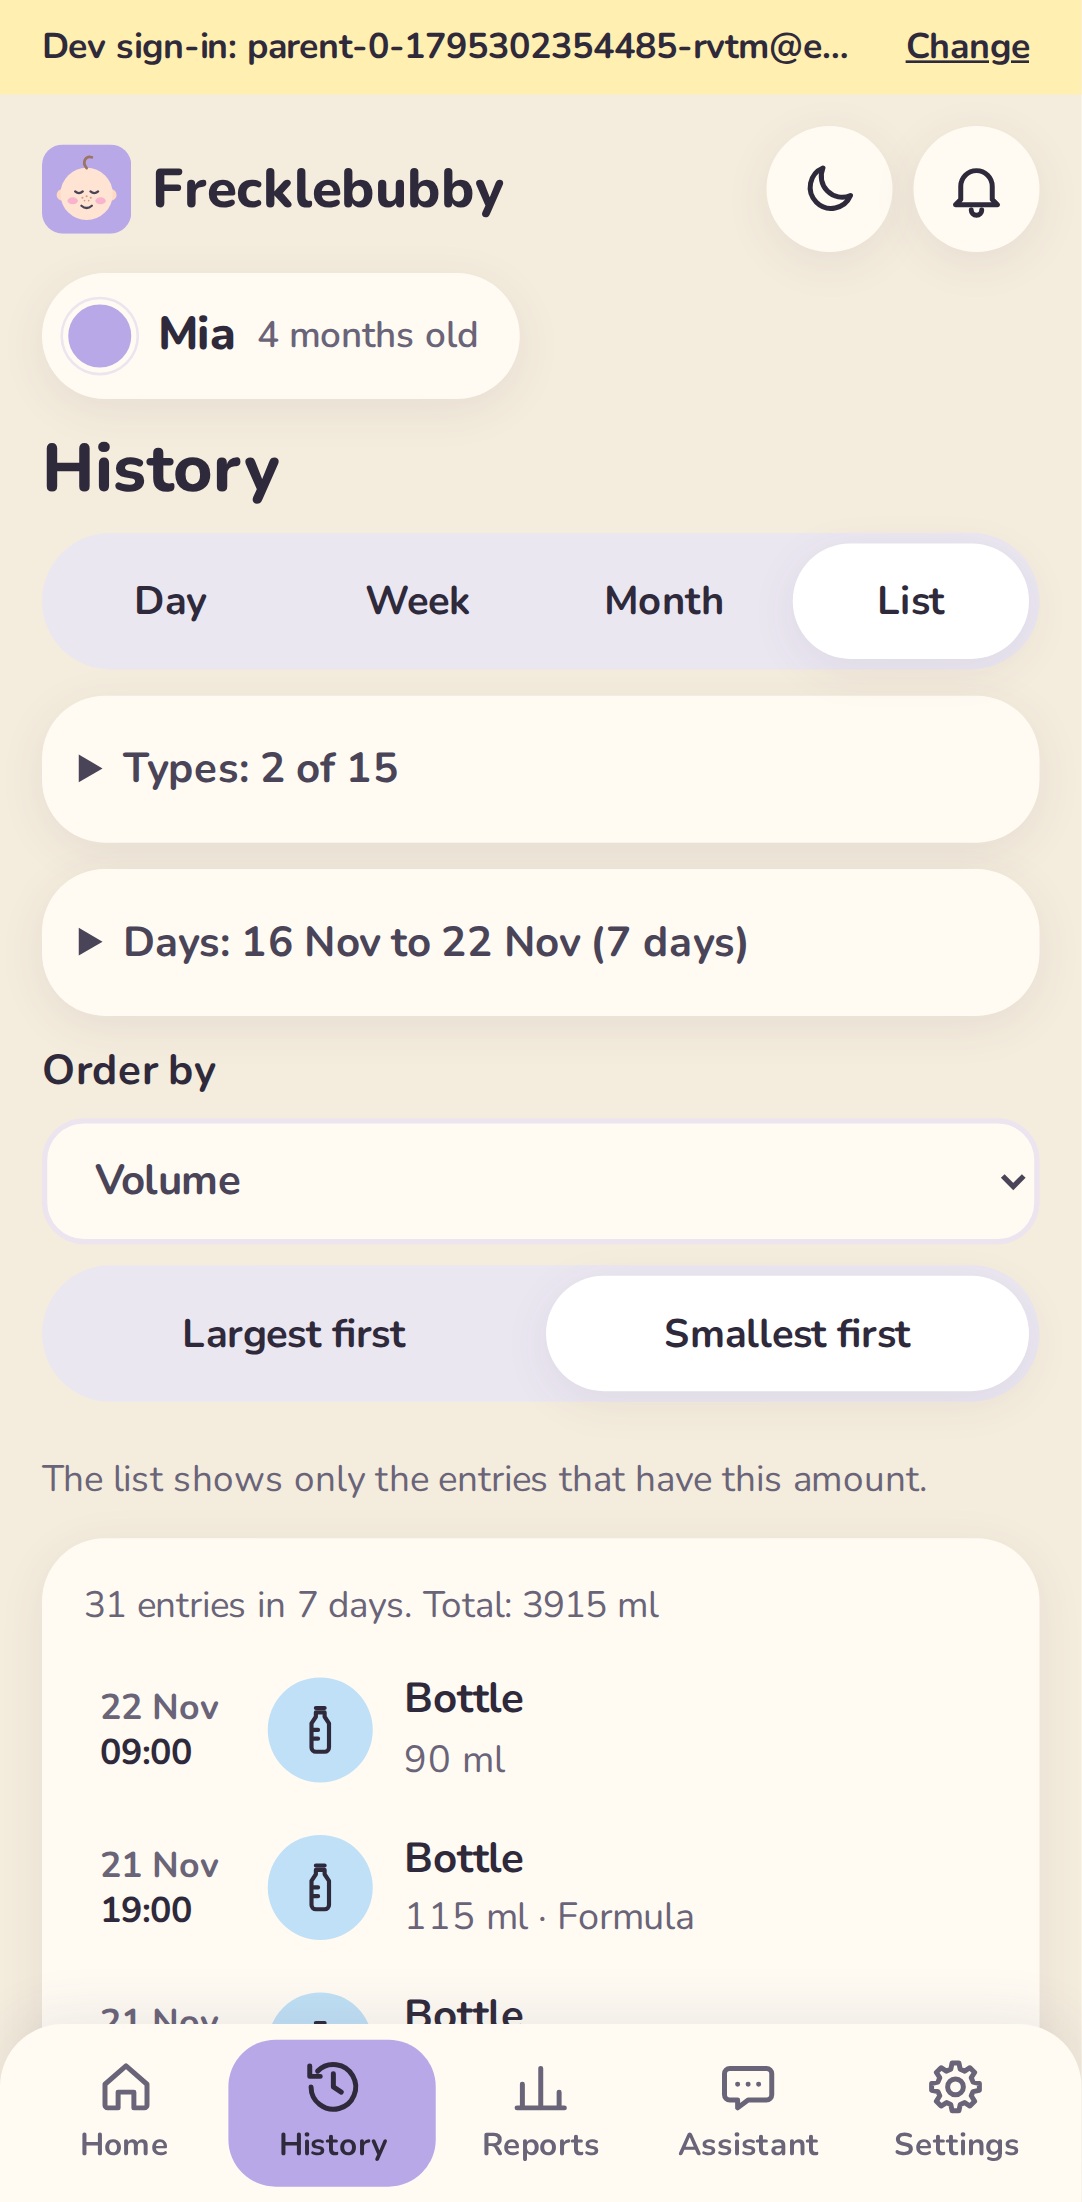
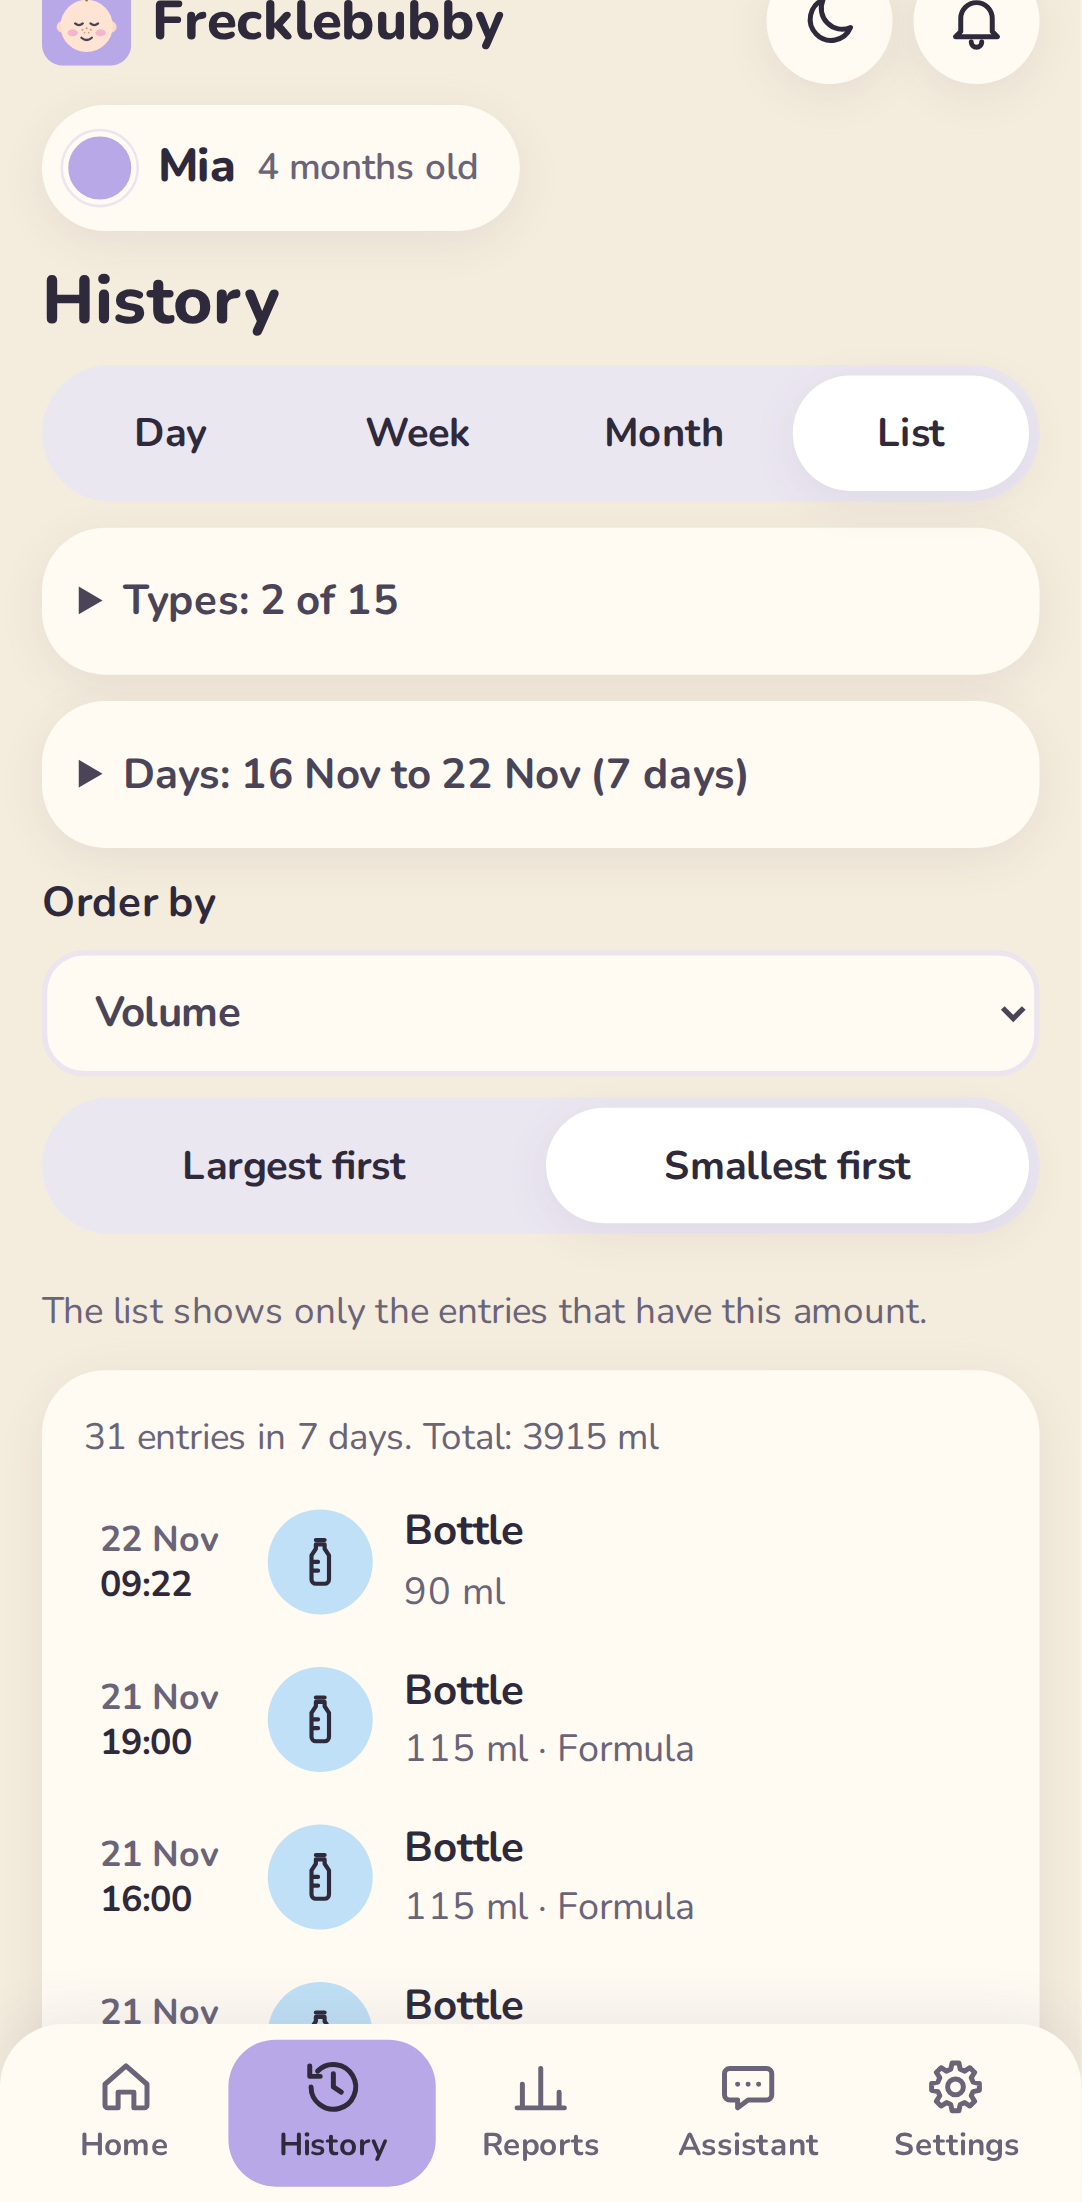
Release 0.8.2: download the History list as CSV, with the same types, days and order

diff --git a/frontend/src/routes/history/+page.svelte b/frontend/src/routes/history/+page.svelte
@@ -1,5 +1,5 @@
 <script lang="ts">
-	import { api } from '#lib/api.ts';
+	import { api, downloadCsv } from '#lib/api.ts';
 	import { child, wording } from '#lib/app.svelte.ts';
 	import EntrySheet from '#lib/EntrySheet.svelte';
 	import { units } from '#lib/app.svelte.ts';
@@ -100,6 +100,26 @@
 		load();
 	});
 
+	// the CSV has the same types, days and order as the list on the screen
+	let exporting = $state(false);
+	async function exportCsv() {
+		const q = new URLSearchParams({ sort, dir });
+		if (off.length) for (const t of types) q.append('type', t.type);
+		if (ranged) {
+			q.set('from', `${range.from}T00:00`);
+			q.set('to', `${addDays(range.to, 1)}T00:00`);
+		}
+		exporting = true;
+		error = '';
+		try {
+			await downloadCsv(child()!, localDay(), q.toString());
+		} catch (e) {
+			error = (e as Error).message;
+		} finally {
+			exporting = false;
+		}
+	}
+
 	// the total of the selected days, for the amounts that you can add
 	const total = $derived.by(() => {
 		if (sort === 'volume')
@@ -194,6 +214,10 @@
 		{/if}
 		{#if more}<button class="ghost wide" disabled={loading} onclick={() => load(true)}>Show older</button>{/if}
 		{#if ranged && entries.length > shown}<button class="ghost wide" onclick={() => (shown += 200)}>Show more</button>{/if}
+		{#if types.length && entries.length}
+			<button class="ghost wide" disabled={exporting} onclick={exportCsv}><Icon name="download" /> Download this list as CSV</button>
+			<p class="muted small">The file has all entries of the selected types and days, in this order.</p>
+		{/if}
 	{/if}
 </section>
 

diff --git a/e2e/tests/05-history-reports.spec.ts b/e2e/tests/05-history-reports.spec.ts
@@ -76,6 +76,13 @@ test('History and Reports show a week of data, growth percentile and CSV export'
 	await expect(page.getByText('(2 days)')).toBeVisible();
 	await expect(page.getByText('6 entries in 2 days. Total: 665 ml')).toBeVisible();
 	await expect(page.getByRole('button', { name: /Edit Bottle/ })).toHaveCount(6);
+	// the CSV of the list has the same selection and order: 6 bottles of 2 days, the smallest first
+	const [listCsv] = await Promise.all([page.waitForEvent('download'), page.getByRole('button', { name: 'Download this list as CSV' }).click()]);
+	const lines = readFileSync(await listCsv.path(), 'utf8').trim().split('\n');
+	expect(lines[0]).toContain('id,type,started_at');
+	expect(lines.length).toBe(7);
+	expect(lines[1]).toContain('""amount_ml"":90');
+	expect(lines.every((l, i) => i === 0 || l.includes(',bottle,'))).toBeTruthy();
 	// a range can have 180 days at most: the other day moves
 	await page.getByLabel('First day').fill(day(300));
 	await expect(page.getByText('(180 days)')).toBeVisible();

diff --git a/frontend/src/routes/reports/+page.svelte b/frontend/src/routes/reports/+page.svelte
@@ -1,5 +1,5 @@
 <script lang="ts">
-	import { api, apiRaw } from '#lib/api.ts';
+	import { api, downloadCsv } from '#lib/api.ts';
 	import { child, units, wording } from '#lib/app.svelte.ts';
 	import BarChart, { average } from '#lib/BarChart.svelte';
 	import { addDays, fmtDay, fmtDur, localDay, round, toUnit, unitLabel, type UnitKind } from '#lib/format.svelte.ts';
@@ -48,13 +48,7 @@
 		const c = child()!;
 		exporting = true;
 		try {
-			const res = await apiRaw(`/children/${c.id}/export.csv`);
-			if (!res.ok) throw new Error('Export failed. Try again.');
-			const a = document.createElement('a');
-			a.href = URL.createObjectURL(await res.blob());
-			a.download = `frecklebubby-${c.name.toLowerCase().replace(/\W+/g, '-')}-${localDay()}.csv`;
-			a.click();
-			URL.revokeObjectURL(a.href);
+			await downloadCsv(c, localDay());
 		} catch (e) {
 			error = (e as Error).message;
 		} finally {

diff --git a/frontend/src/lib/api.ts b/frontend/src/lib/api.ts
@@ -1,6 +1,17 @@
 // REST client and sign-in. Dev mode: X-Dev-User header. Clerk mode: session token.
 import type { Clerk } from '@clerk/clerk-js';
 
+/** Download the entries of a child as a CSV file. `query` is the selection of the entry list; empty = all entries. */
+export async function downloadCsv(child: { id: number; name: string }, day: string, query = '') {
+	const res = await apiRaw(`/children/${child.id}/export.csv${query && '?' + query}`);
+	if (!res.ok) throw new Error('Export failed. Try again.');
+	const a = document.createElement('a');
+	a.href = URL.createObjectURL(await res.blob());
+	a.download = `frecklebubby-${child.name.toLowerCase().replace(/\W+/g, '-')}-${day}.csv`;
+	a.click();
+	URL.revokeObjectURL(a.href);
+}
+
 export type Config = {
 	auth_mode: 'dev' | 'clerk';
 	invite_only: boolean;

diff --git a/src/frecklebubby/services/export.py b/src/frecklebubby/services/export.py
@@ -1,15 +1,14 @@
-"""CSV export of all entries of a child."""
+"""CSV export of the entries of a child: all of them, or the same selection as the entry list."""
 
 import csv
 import io
 import json
 
-from sqlalchemy import select
 from sqlalchemy.orm import Session
 
-from ..models import Entry
 from . import Ctx
 from .children import get_child
+from .entries import list_entries
 
 COLUMNS = ["id", "type", "started_at", "ended_at", "duration_minutes", "data", "notes", "source"]
 
@@ -19,14 +18,15 @@ def _cell(text: str) -> str:
     return "'" + text if text[:1] in ("=", "+", "-", "@", "\t", "\r") else text
 
 
-def export_csv(s: Session, ctx: Ctx, child_id: int) -> tuple[str, str]:
-    """Returns (filename, csv text). Times are local to the family, with offset."""
+def export_csv(s: Session, ctx: Ctx, child_id: int, **select) -> tuple[str, str]:
+    """Returns (filename, csv text). Times are local to the family, with offset. `select` are the filter and
+    order arguments of list_entries; with none, all entries, the oldest first."""
     child = get_child(s, ctx, child_id)
     tz = ctx.tz
     out = io.StringIO()
     w = csv.writer(out)
     w.writerow(COLUMNS)
-    for e in s.scalars(select(Entry).where(Entry.child_id == child.id).order_by(Entry.started_at, Entry.id)):
+    for e in list_entries(s, ctx, child.id, **{"newest_first": False, **select, "limit": None}):
         minutes = round((e.ended_at - e.started_at).total_seconds() / 60, 1) if e.ended_at else ""
         w.writerow([
             e.id, e.type, e.started_at.astimezone(tz).isoformat(),

diff --git a/src/frecklebubby/services/entries.py b/src/frecklebubby/services/entries.py
@@ -81,11 +81,12 @@ MEASURES = {
 
 
 def list_entries(s: Session, ctx: Ctx, child_id: int, type_: str | list[str] | None = None,
-                 start: datetime | None = None, end: datetime | None = None, limit: int = 50,
+                 start: datetime | None = None, end: datetime | None = None, limit: int | None = 50,
                  before: datetime | None = None, newest_first: bool = True, sort: str = "time",
                  offset: int = 0) -> list[Entry]:
     """Entries that start in [start, end) and before `before` (page cursor). `sort` is "time" or a name in MEASURES;
-    with a measure, entries that do not have it are left out, and `newest_first` means largest first."""
+    with a measure, entries that do not have it are left out, and `newest_first` means largest first.
+    `limit` None gives all entries (for the export)."""
     child = get_child(s, ctx, child_id)
     q = select(Entry).where(Entry.child_id == child.id)
     if type_ is not None:
@@ -101,7 +102,7 @@ def list_entries(s: Session, ctx: Ctx, child_id: int, type_: str | list[str] | N
         m = MEASURES[sort]()
         q = q.where(m.is_not(None))
         order = (m.desc() if newest_first else m.asc(), Entry.started_at.desc(), Entry.id.desc())
-    return list(s.scalars(q.order_by(*order).offset(offset).limit(max(1, min(limit, 1000)))))
+    return list(s.scalars(q.order_by(*order).offset(offset).limit(limit and max(1, min(limit, 1000)))))
 
 
 def update_entry(s: Session, ctx: Ctx, entry_id: int, body: EntryPatch) -> Entry:

diff --git a/src/frecklebubby/api/children.py b/src/frecklebubby/api/children.py
@@ -155,8 +155,19 @@ def child_growth(cid: int, ctx: Ctx = Depends(get_ctx), s: Session = Depends(get
 
 @router.get("/children/{cid}/export.csv", response_class=Response,
             responses={200: {"content": {"text/csv": {}}}})
-def export_csv(cid: int, ctx: Ctx = Depends(get_ctx), s: Session = Depends(get_session)):
-    name, text = export.export_csv(s, ctx, cid)
+def export_csv(
+    cid: int,
+    type: list[EntryType] | None = Query(None, description="One type or more. Without it, all types"),
+    start: datetime | None = Query(None, alias="from", description="Entries that start at or after this time"),
+    end: datetime | None = Query(None, alias="to", description="Entries that start before this time"),
+    sort: Literal["time", "duration", "volume", "weight", "height", "head", "temperature"] = Query(
+        "time", description="The order, as in the entry list. With an amount, entries without it are left out"),
+    dir: Literal["desc", "asc"] = Query("asc", description="asc: oldest or smallest first (default). desc: the reverse"),
+    ctx: Ctx = Depends(get_ctx),
+    s: Session = Depends(get_session),
+):
+    """All entries as CSV, or the same selection and order as `GET /children/{cid}/entries`."""
+    name, text = export.export_csv(s, ctx, cid, type_=type, start=start, end=end, sort=sort, newest_first=dir == "desc")
     return Response(text, media_type="text/csv; charset=utf-8",
                     headers={"Content-Disposition": f'attachment; filename="{name}"'})
 

diff --git a/tests/test_entry_list.py b/tests/test_entry_list.py
@@ -36,3 +36,14 @@ async def test_list_filter_and_order(client):
     assert [e["type"] for e in await get("sort=temperature")] == ["temperature"]
     assert [e["type"] for e in await get("sort=volume&limit=1&offset=1")] == ["pump"]
     assert (await client.get(f"{c}?sort=colour", headers=h)).status_code == 422
+
+    # the CSV export takes the same selection and order
+    async def ids(q):
+        r = await client.get(f"{API}/children/{cid}/export.csv?{q}", headers=h)
+        assert r.status_code == 200, r.text
+        return [line.split(",")[1] for line in r.text.strip().splitlines()[1:]]
+
+    assert len(await ids("")) == 8 and (await ids(""))[0] == "bottle"  # all entries, the oldest first
+    assert await ids("type=bottle&type=nappy&dir=desc") == ["nappy", "bottle", "bottle"]
+    assert await ids("sort=volume&dir=desc") == ["bottle", "pump", "bottle"]
+    assert await ids("from=2026-11-01T17:00:00Z&to=2026-11-01T19:00:00Z") == ["sleep", "nursing"]

diff --git a/README.md b/README.md
@@ -10,7 +10,7 @@ Log the day, see the patterns, and ask an assistant that shows its sources.
 Your data stays on your server.
 
 [![CI](https://github.com/dr-robert-li/frecklebubby/actions/workflows/ci.yml/badge.svg)](https://github.com/dr-robert-li/frecklebubby/actions/workflows/ci.yml)
-[![Version](https://img.shields.io/badge/version-0.8.1-e88fa6)](CHANGELOG.md)
+[![Version](https://img.shields.io/badge/version-0.8.2-e88fa6)](CHANGELOG.md)
 [![Licence: MIT](https://img.shields.io/badge/licence-MIT-7fb8a4)](LICENSE)
 [![Python 3.14](https://img.shields.io/badge/python-3.14-6c9bd2)](pyproject.toml)
 
@@ -40,7 +40,7 @@ Your data stays on your server.
 - Shows the history by day, week or month, or as a list. Week and month show each day as one row of 24 hours,
   with sleep as bars and feeds and nappies as marks, so you see the pattern. You select the types to show, and
   you can put the list in the order of time or of a logged amount (duration, volume, weight, length, temperature).
-  In the list you can also select a range of days (180 days at most), to see them together with a total.
+  In the list you can also select a range of days (180 days at most), to see them together with a total, and download the list as a CSV file.
 - Shows reports: sleep, feeds and nappies per day for a week or a month, with the average and the common range,
   and growth on WHO percentile curves. Exports CSV.
 - Sends reminders in the app and as push notifications.

diff --git a/CHANGELOG.md b/CHANGELOG.md
@@ -6,6 +6,13 @@ Version numbers follow [Semantic Versioning](https://semver.org/).
 
 ## [Unreleased]
 
+## [0.8.2] - 2026-11-22
+
+### Added
+
+- History, List view: "Download this list as CSV". The file has all entries of the selected types and days, in the order of the list. The format is the same as the CSV of the Reports page.
+- API: `GET /children/{id}/export.csv` accepts `type`, `from`, `to`, `sort` and `dir`, as the entry list does. With no parameter it gives all entries, the oldest first, as before.
+
 ## [0.8.1] - 2026-11-22
 
 ### Changed

diff --git a/docs/api-and-mcp.md b/docs/api-and-mcp.md
@@ -57,4 +57,7 @@ To list entries, use `GET /children/{id}/entries`. It gives the newest entries f
 - `dir`: `desc` (default: newest or largest first) or `asc`.
 - `limit` (default 50, maximum 1000) and `offset` for the next page.
 
+`GET /children/{id}/export.csv` gives the entries as a CSV file. It accepts `type`, `from`, `to`, `sort` and `dir`
+in the same way, and has no limit. With no parameter it gives all entries, the oldest first.
+
 A time without an offset is read in the family time zone. Errors come back as `{"detail": "plain message"}`.
